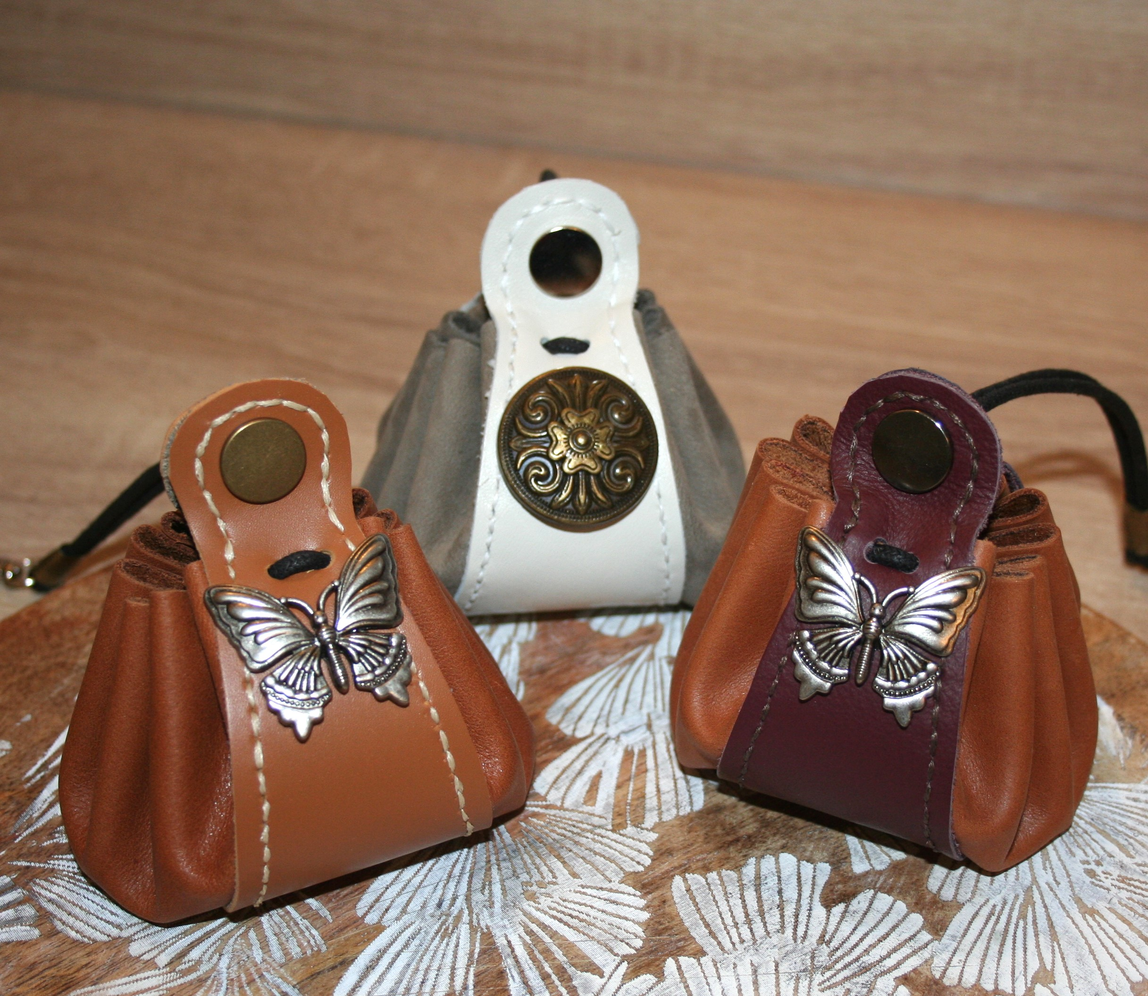
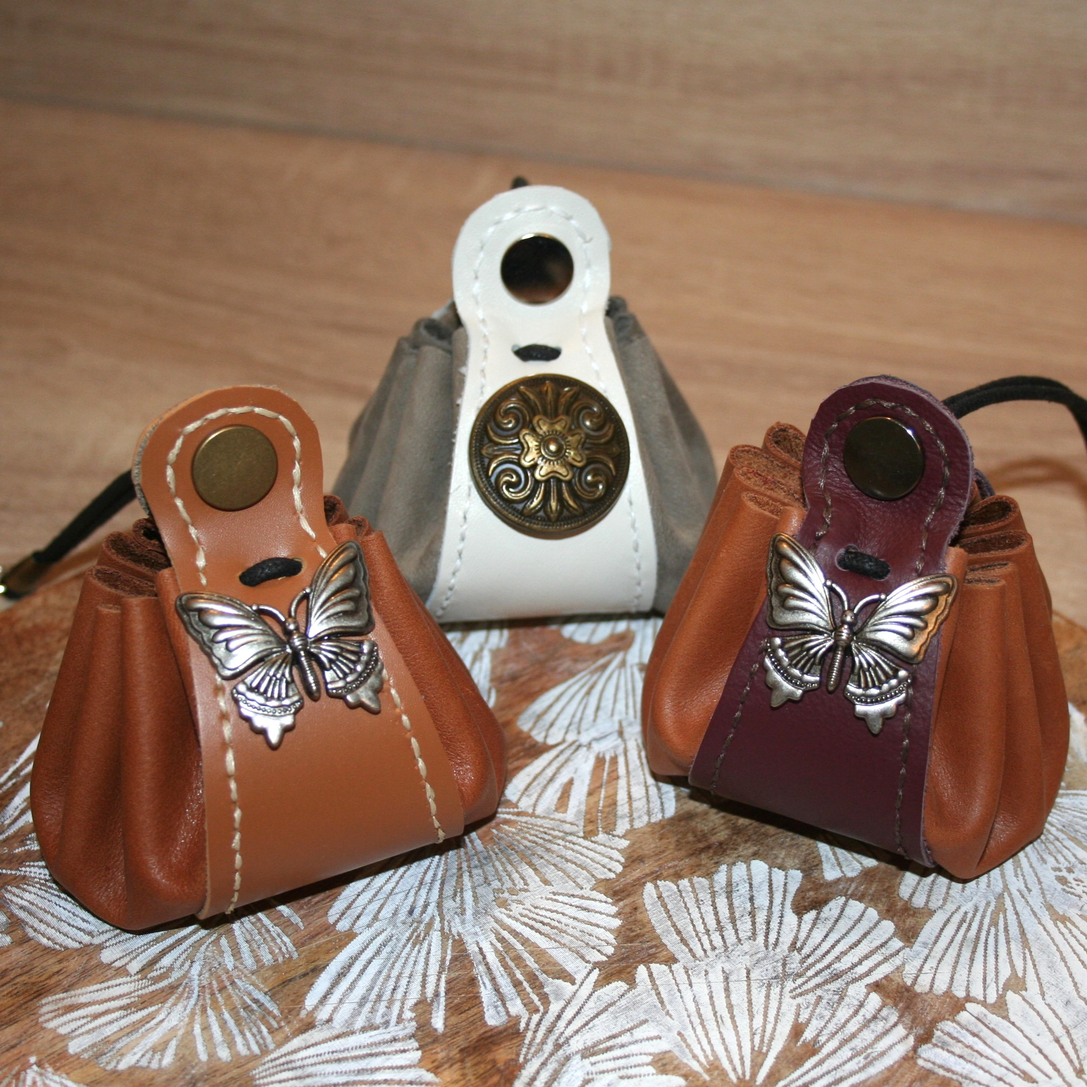
change pictures size and reajust coding size view

diff --git a/pages/realisations.html b/pages/realisations.html
@@ -114,7 +114,7 @@
             </div>
             <div class="carousel-item">
               <img
-                src="../asset/images/complete/grey_and__white_wallet.jpg"
+                src="../asset/images/complete/grey_and_white_wallet.jpg"
                 class="d-block w-100"
                 alt="grey_and__white_wallet"
               />
@@ -123,16 +123,9 @@
               <img
                 src="../asset/images/complete/butterfly_wallet.jpg"
                 class="d-block w-100"
-                alt="green_wallet"
+                alt="butterfly_wallet"
               />
             </div>
-            <!-- <div class="carousel-item">
-              <img
-                src="../asset/images/complete/green_wallet.jpg"
-                class="d-block w-100"
-                alt="green_wallet"
-              />
-            </div> -->
             <div class="carousel-item">
               <img
                 src="../asset/images/complete/wallets.jpg"

diff --git a/index.html b/index.html
@@ -99,15 +99,10 @@
     <main>
       <h1>Carine Création</h1>
       <div class="container_main">
-        <!-- <img
-          class="bourse"
-          src="./asset/images/complete/butterfly_wallet.jpg"
-          alt="butterfly_wallet"
-        /> -->
         <img
           class="bourse"
           src="./asset/images/complete/green_wallet.jpg"
-          alt="butterfly_wallet"
+          alt="green_wallet"
         />
         <p class="presentation">
           Bienvenue sur mon blog

diff --git a/asset/css/styles.css b/asset/css/styles.css
@@ -41,14 +41,6 @@ h1 {
   justify-content: space-between;
 }
 
-.bourse {
-  width: 50vw;
-  height: 30vh;
-  border-radius: 65px;
-  box-shadow: grey 5px 5px 3px;
-  margin: 1.2rem;
-}
-
 .nav-item a {
   font-size: 1.5rem;
 }

diff --git a/asset/css/styles_mobile.css b/asset/css/styles_mobile.css
@@ -24,3 +24,11 @@ h1 {
 .boutons_rivet img:first-child {
   height: 200px;
 }
+
+.bourse {
+  width: 50vw;
+  height: 30vh;
+  border-radius: 65px;
+  box-shadow: grey 5px 5px 3px;
+  margin: 1.2rem;
+}

diff --git a/asset/css/styles_desktop.css b/asset/css/styles_desktop.css
@@ -36,3 +36,11 @@
   height: 20vh;
   margin: auto;
 }
+
+.bourse {
+  width: 250px;
+  height: 200px;
+  border-radius: 65px;
+  box-shadow: grey 5px 5px 3px;
+  margin: 1.2rem;
+}

diff --git a/asset/css/styles_tablet.css b/asset/css/styles_tablet.css
@@ -37,3 +37,11 @@
   width: 90vw;
   margin: auto;
 }
+
+.bourse {
+  width: 250px;
+  height: 200px;
+  border-radius: 65px;
+  box-shadow: grey 5px 5px 3px;
+  margin: 1.2rem;
+}
